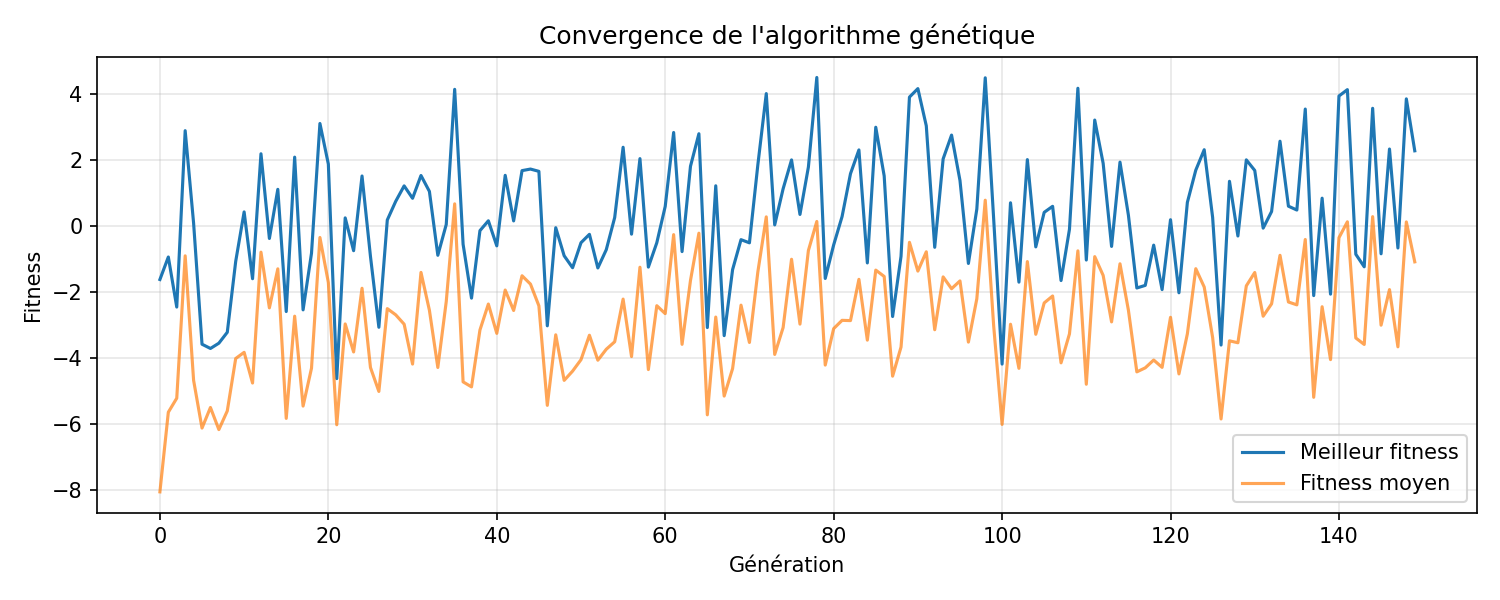
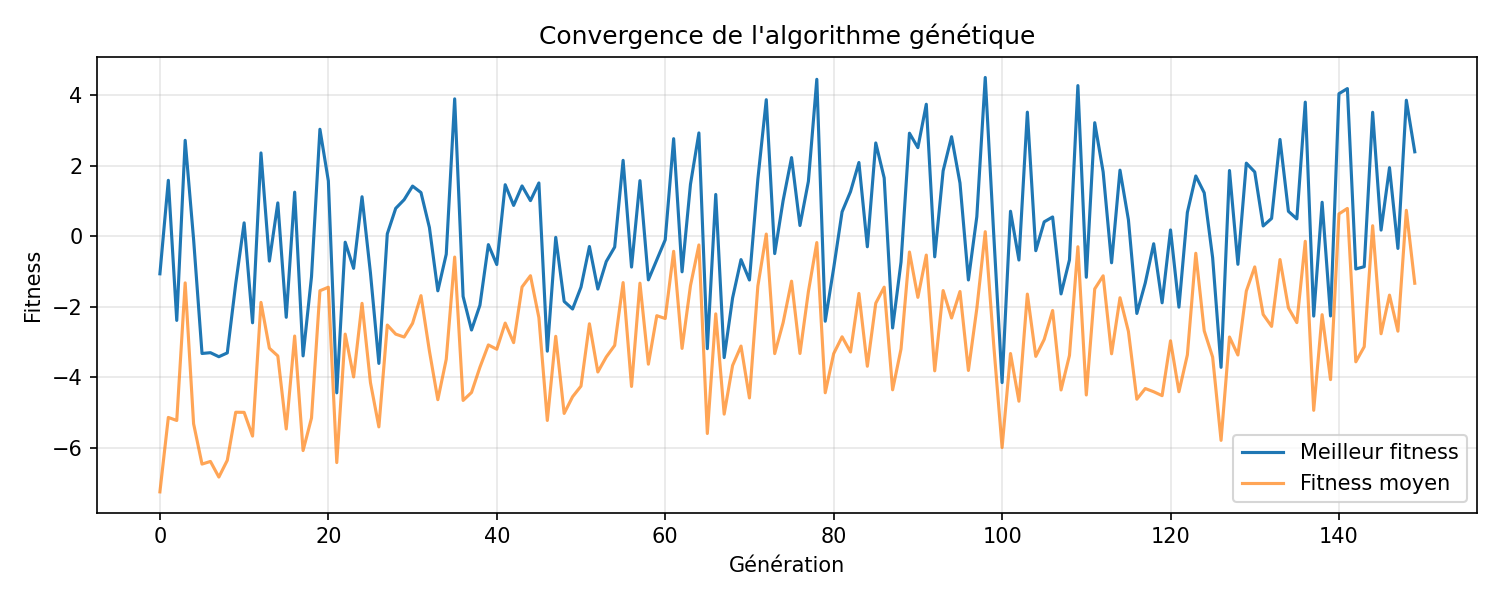
new updates

diff --git a/experiments/run_experiment.py b/experiments/run_experiment.py
@@ -11,14 +11,12 @@ from agent.genetic_algorithm import GeneticAlgorithm, evaluate_fitness
 from baselines.random_agent import RandomAgent
 from baselines.bfs_agent import BFSAgent
 
-# ------------------------------------------------------------------
 N_EVAL = 30
 SEEDS  = list(range(N_EVAL))
 BFS_SEEDS = SEEDS[:5]
 
 env_params = dict(size=9, n_keys=1, n_traps=1, max_steps=200)
 
-# ------------------------------------------------------------------
 def evaluate_agent(agent, env_params, seeds, bfs=False):
     """Retourne (mean, std, liste_rewards) pour pouvoir réutiliser les rewards."""
     env = MazeEnv(**env_params)
@@ -42,8 +40,7 @@ def evaluate_agent(agent, env_params, seeds, bfs=False):
 
     return float(np.mean(rewards)), float(np.std(rewards)), rewards
 
-# ------------------------------------------------------------------
-# 1. Entraîner l'AG
+
 print("=== Entraînement de l'algorithme génétique ===")
 train_env = MazeEnv(**env_params)
 ga = GeneticAlgorithm(pop_size=100, n_generations=150, mutation_rate=0.30, elitism_k=2)
@@ -52,8 +49,6 @@ best_agent, best_hist, avg_hist = ga.run(train_env)
 print("\nMeilleur génome évolué :")
 best_agent.describe()
 
-# ------------------------------------------------------------------
-# 2. Démonstration visuelle
 print("\n=== Démonstration de l'agent AG (seed=0) ===")
 time.sleep(1)
 
@@ -79,24 +74,22 @@ os.system('cls')
 print(f"=== Fin de l'épisode — {step_count} pas | Récompense finale: {total_demo:.2f} ===")
 demo_env.render()
 if total_demo > 5:
-    print("\n✓ L'agent a trouvé la sortie !")
+    print("\n L'agent a trouvé la sortie ")
 elif total_demo < -1.5:
-    print("\n✗ L'agent est tombé dans un piège ou a timeout.")
+    print("\n L'agent est tombé dans un piège ou a timeout.")
 else:
     print("\n~ Episode terminé.")
 time.sleep(2)
 
-# ------------------------------------------------------------------
-# 3. Évaluation — on garde les rewards pour le boxplot (pas de double calcul)
 print("\n=== Évaluation sur 30 épisodes de test ===")
 
-print("  → évaluation AG...")
+print("   évaluation AG...")
 ag_mean, ag_std, ag_rews   = evaluate_agent(best_agent, env_params, SEEDS)
-print("  → évaluation aléatoire...")
+print("   évaluation aléatoire...")
 rd_mean, rd_std, rd_rews   = evaluate_agent(RandomAgent(), env_params, SEEDS)
-print("  → évaluation BFS...")
+print("   évaluation BFS...")
 bfs_mean, bfs_std, bfs_rews = evaluate_agent(None, env_params, BFS_SEEDS, bfs=True)
-print("  → done")
+print("   done")
 
 print(f"\n{'Agent':<20} {'Récompense moy':>15}  {'Écart-type':>12}")
 print("-" * 50)
@@ -104,8 +97,6 @@ print(f"{'AG (notre agent)':<20} {ag_mean:>15.2f}  {ag_std:>12.2f}")
 print(f"{'Agent aléatoire':<20} {rd_mean:>15.2f}  {rd_std:>12.2f}")
 print(f"{'Agent BFS':<20} {bfs_mean:>15.2f}  {bfs_std:>12.2f}")
 
-# ------------------------------------------------------------------
-# 4. Graphiques — on réutilise les rewards déjà calculés, AUCUN recalcul
 os.makedirs("results/plots", exist_ok=True)
 
 plt.figure(figsize=(10, 4))
@@ -120,7 +111,6 @@ plt.tight_layout()
 plt.savefig("results/plots/convergence.png", dpi=150)
 print("\nCourbe sauvegardée : results/plots/convergence.png")
 
-# Boxplot — réutilise ag_rews, rd_rews, bfs_rews déjà calculés
 fig, ax = plt.subplots(figsize=(8, 5))
 ax.boxplot(
     [ag_rews, rd_rews, bfs_rews],

diff --git a/test_env.py b/test_env.py
@@ -13,5 +13,5 @@ for i in range(10):
     obs, reward, term, trunc, _ = env.step(action)
     print(f"  action={action}, reward={reward:.2f}, term={term}, trunc={trunc}")
     if term or trunc:
-        print("  Episode terminé!")
+        print("  Episode terminé")
         break
